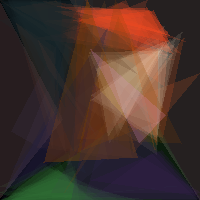
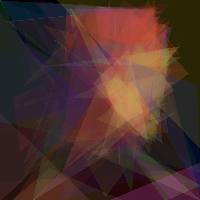
Implemented a stability threshold

diff --git a/main.py b/main.py
@@ -28,6 +28,7 @@ import multiprocessing
 import PIL
 import evol
 
+from evol import Population
 from PIL import Image, ImageChops, ImageDraw
 from pathlib import Path
 from docopt import docopt
@@ -164,16 +165,16 @@ def evolve(population, *args):
         the population after all the changes
     """
     # Luck = If True, individuals randomly survive based on fitness; defaults to False (Removed)
-    population.survive(fraction=0.5)
+    population.survive(fraction=0.1)
     population.breed(parent_picker=select, combiner=combine)
-    population.mutate(mutate_function=mutate, rate=0.8)  # Mutates the polygons to and sets mutation rate
+    population.mutate(mutate_function=mutate, rate=0.7)  # Mutates the polygons to and sets mutation rate
     return population
 
-# My initial code for the evolution algorithm - does not use Ipython
 '''
+# My initial code for the evolution algorithm - does not use Ipython
 if __name__ == "__main__":
     population = Population.generate(initialise, evaluate, size=10, maximize=True)
-    for i in range(6000):
+    for i in range(5000):
         evolve(population)  # returns the evolved population.
         print(i, evaluate(solution=population[0].chromosome))
 
@@ -241,14 +242,33 @@ if __name__ == "__main__":
     # create the first population
     population = Population(initialise, int(args["--pop-size"]), parallel_map)
 
-    # run the evolution
+    # Define threshold and limit for stability
+    stability_threshold = 0.00001  # Adjust as needed for what you consider a "stable" change
+    stability_limit = 100  # Number of generations with minimal change before stopping
+
+    # Initialize variables to track stability
+    previous_best_score = None
+    stable_generations_count = 0
+
     for i in range(1, int(args["--generations"])):
         evolve(population, args).callback(logger.log, generation=i)
+        current_best_score = population.current_best.fitness
 
-    # log the last iteration (ignoring the step)
-    logger.step = 1
-    evolve(population, args).callback(logger.log, generation=i + 1)
+        # Check if the score has changed significantly
+        if previous_best_score is not None:
+            score_change = abs(current_best_score - previous_best_score)
+            if score_change < stability_threshold:
+                stable_generations_count += 1
+            else:
+                stable_generations_count = 0  # Reset count if there's significant change
 
-    # save the best solution as image
-    name = "best_{}_p{--pop-size}_g{--generations}".format(path.stem, **args)
-    draw(population.current_best.chromosome).save("solution.png")
+            # Check if stability limit is reached
+            if stable_generations_count >= stability_limit:
+                print(f"Evolution stopped due to stability at generation {i}.")
+                break  # Stop the loop
+        previous_best_score = current_best_score
+
+    # Save the best solution as image outside the loop
+    name = f"best_{path.stem}_p{args['--pop-size']}_g{args['--generations']}"
+    draw(population.current_best.chromosome).save(f"{name}.png")
+    
